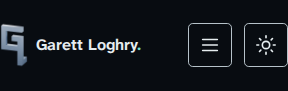
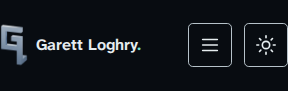
Use the approved longer-foot GL mark in the header (#18)

Changed region(s): [[0.0, 0.2637, 0.0938, 0.7253]]

diff --git a/docs/gl-mark.md b/docs/gl-mark.md
@@ -6,11 +6,12 @@ sculpture reference, approved the geometry baseline, and directed its design;
 Codex implemented the model, static exports, and site integration.
 
 The source is the named `original` variant at commit
-[`1cb9cb05dcff95d71d4f21c2c146486178b542d7`](https://github.com/gloghry/icon/commit/1cb9cb05dcff95d71d4f21c2c146486178b542d7).
+[`13223fe248db03a3f80d376c63a60251eb7df563`](https://github.com/gloghry/icon/commit/13223fe248db03a3f80d376c63a60251eb7df563).
 Machine-readable provenance, image dimensions, and SHA-256 hashes are in
 [gl-mark-provenance.json](gl-mark-provenance.json). The G's left back ends at its
 lower bar; only its right return continues down as the square L stem, with the
-compact foot extending along +Y. The same continuous solid supplies front,
+compact foot extending along +Y. The approved follow-up extends total foot
+length 20%, from 3.0 to 3.6, with the G and camera settings preserved. The same continuous solid supplies front,
 side, and three-quarter previews.
 
 ## Static handoff
@@ -18,8 +19,8 @@ side, and three-quarter previews.
 Only these prebuilt files are served by Jekyll:
 
 - `assets/images/gl/gl-mark.webp` — 128×208 transparent optimized header image,
-  5,388 bytes; approximately 65% smaller than the PNG.
-- `assets/images/gl/gl-mark.png` — 128×208 RGBA fallback, 15,609 bytes.
+  4,966 bytes; approximately 68% smaller than the PNG.
+- `assets/images/gl/gl-mark.png` — 128×208 RGBA fallback, 15,401 bytes.
 - `assets/images/gl/favicon.svg` — simplified GL silhouette for small browser
   icons, with colors for light and dark system preferences.
 
@@ -70,8 +71,14 @@ The checked review bundle is [gl-mark-review/](gl-mark-review/):
 [both themes at desktop/mobile sizes](gl-mark-review/headers.png), individual
 header captures, and native-size favicon sheets. [validation.json](gl-mark-review/validation.json)
 records the tested source commit, browser versions, viewports, build paths and
-results. Both final root and `/portfolio` audits pass 155 scenarios each;
+results. The baseline full root and `/portfolio` audits passed 155 scenarios each;
 the site has 33 passing Python checks. The initial local cold-load failure
 also occurred on the unchanged site with the host's Nimbus Sans fallback;
 using the standard browser-test Liberation/Arial fallback resolved it without
 changing site typography or the test threshold.
+
+The approved longer-foot revision passes 33 Python checks, root/subpath builds
+and link checks, and 16 focused Chromium/WebKit header scenarios. Its refreshed
+header screenshots use the longer foot. See
+[longer-foot-validation.json](gl-mark-review/longer-foot-validation.json) for the
+revision, source commit and results. Full browser audits run again in PR CI.
